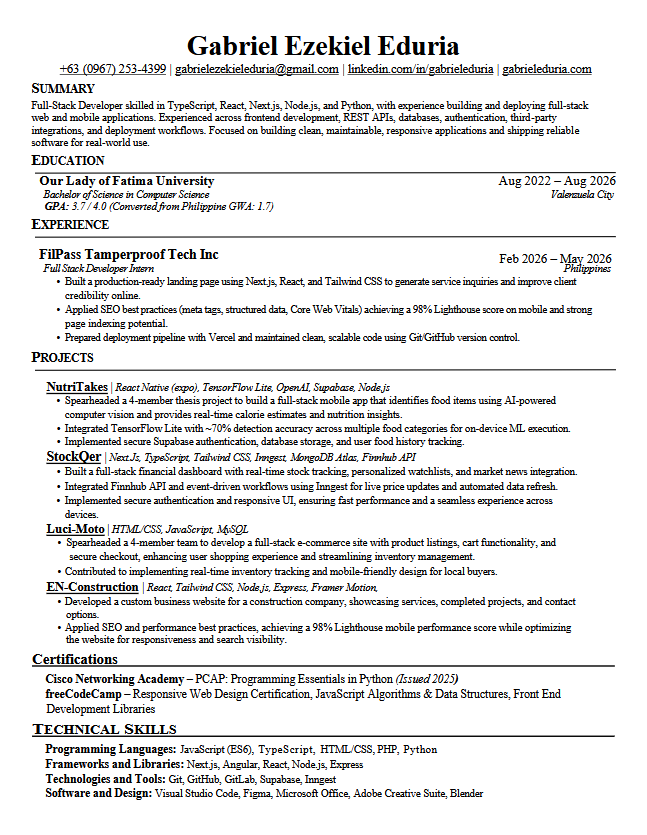
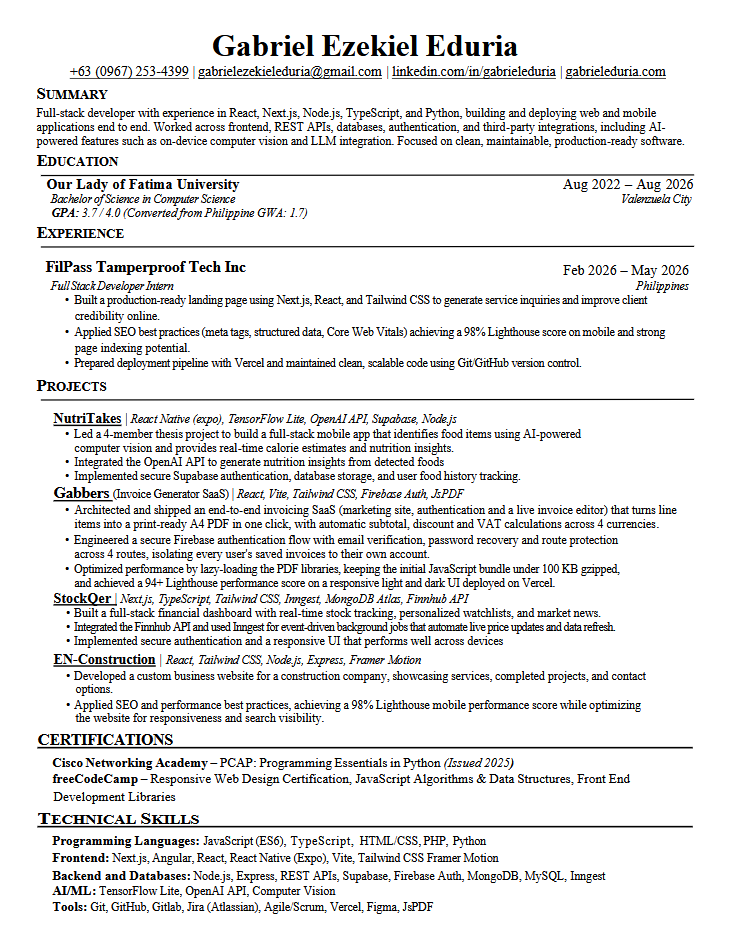
add

diff --git a/src/Routes/ResumePage.tsx b/src/Routes/ResumePage.tsx
@@ -12,7 +12,7 @@ const ResumePage = () => {
   const { isDarkMode } = useContext(DarkModeContext);
 
   const downloadGoogleDrivePDF = () => {
-    const fileId = '1ek8UqA-RXS2hwLgDkYw9wZRzCj5VW8tL';
+    const fileId = '1rsEVlEEX9DAYvA5idjRz48O5KzK0VI3P';
     const downloadUrl = `https://drive.google.com/uc?export=download&id=${fileId}`;
 
     // Create a temporary hidden anchor element
